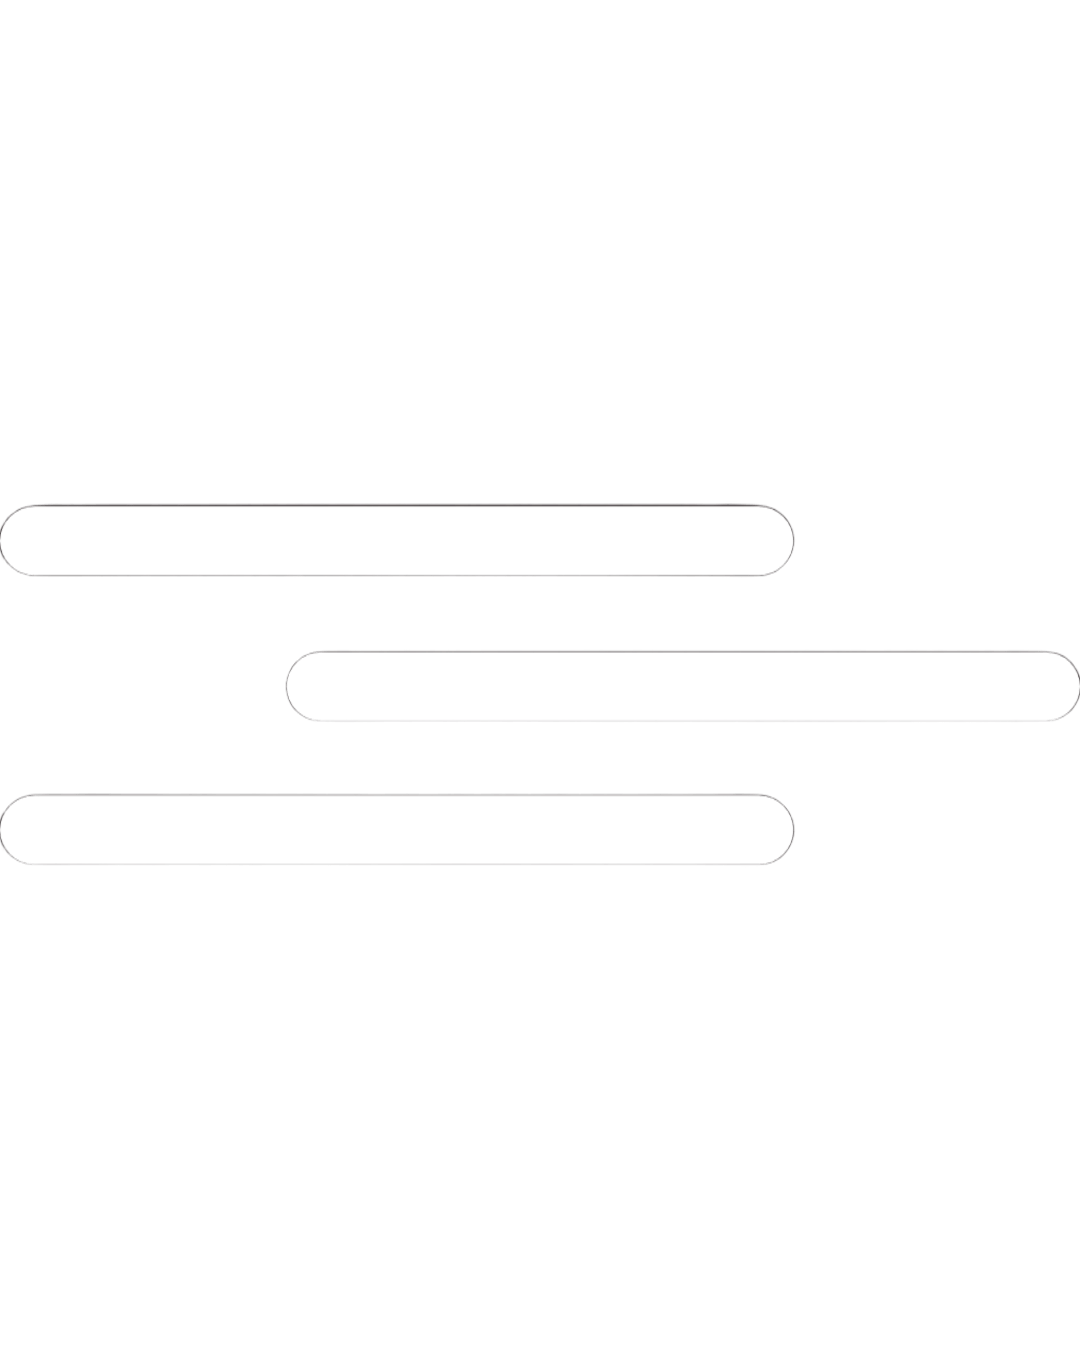
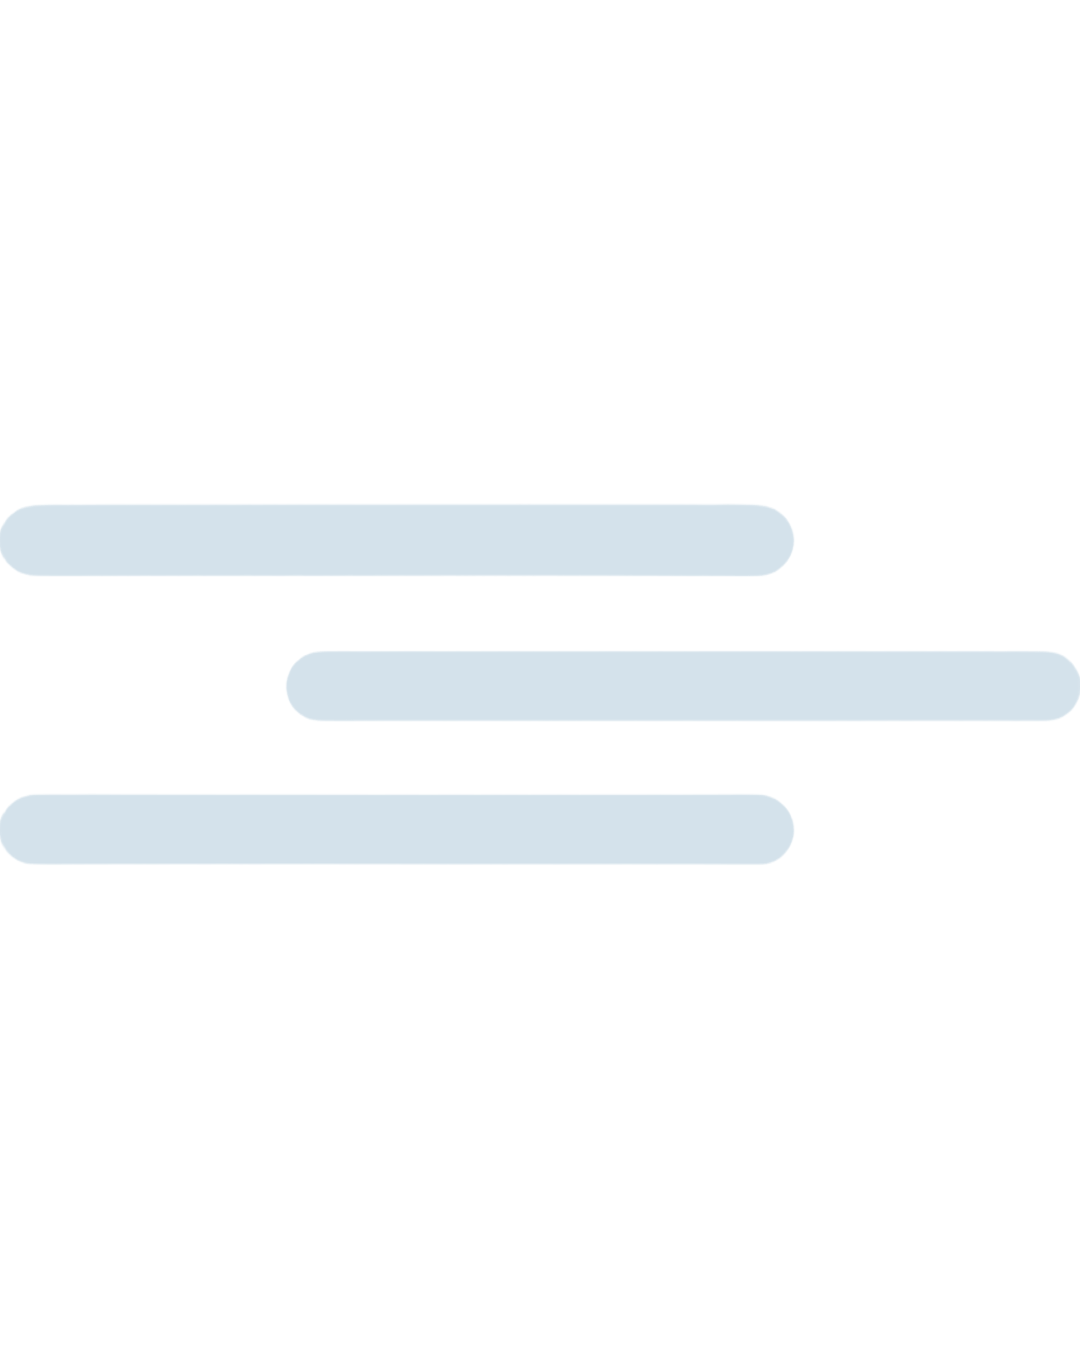
Configurar Neblina.png como ícono de neblinas/nieblas (mismo ícono día y noche) y corregir su color, que venía casi blanco

Changed region(s): [[0.0, 0.4667, 1.0, 0.6533], [0.0, 0.3733, 0.7333, 0.4356]]

diff --git a/admin.html b/admin.html
@@ -613,8 +613,8 @@
         "algo nublado": { dia: "Algo_nublado_dia.png", noche: "Algo_nublado_noche.png" },
         "parcialmente nublado": { dia: "Parcialmente_nublado_dia.png", noche: "Parcialmente_nublado_noche.png" },
         "cubierto": { dia: "Cubierto_dia.png", noche: "Cubierto_noche.png" },
-        "neblinas": { dia: "Nieblas_dia.png", noche: "Nieblas_noche.png" },
-        "nieblas": { dia: "Nieblas_dia.png", noche: "Nieblas_noche.png" },
+        "neblinas": { dia: "Neblina.png", noche: "Neblina.png" },
+        "nieblas": { dia: "Neblina.png", noche: "Neblina.png" },
         "lluvias aisladas": { dia: "Lluvia_dia.png", noche: "Lluvia_noche.png" },
         "lloviznas": { dia: "Lluvia_dia.png", noche: "Lluvia_noche.png" },
         "lluvias y tormentas aisladas": { dia: "Tormentas_dia.png", noche: "Tormentas_noche.png" },
